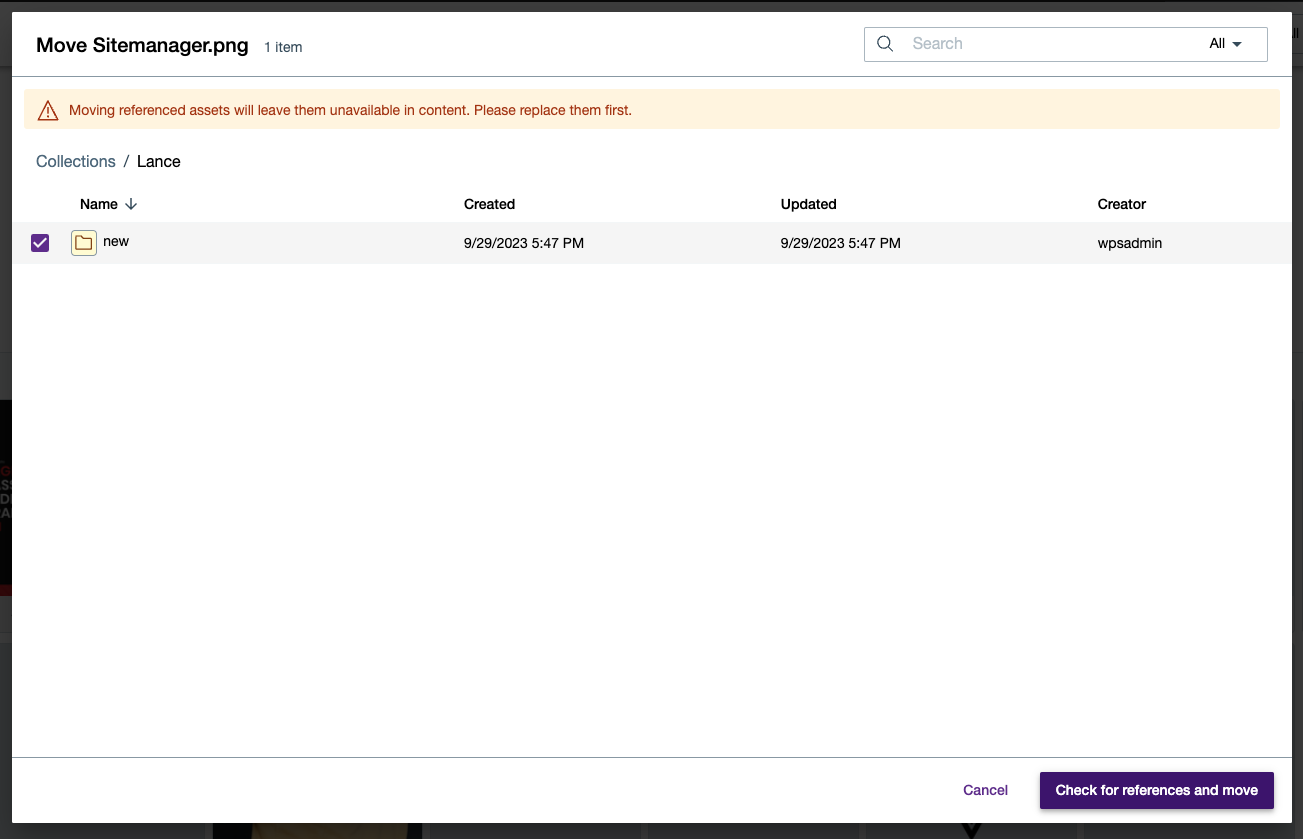
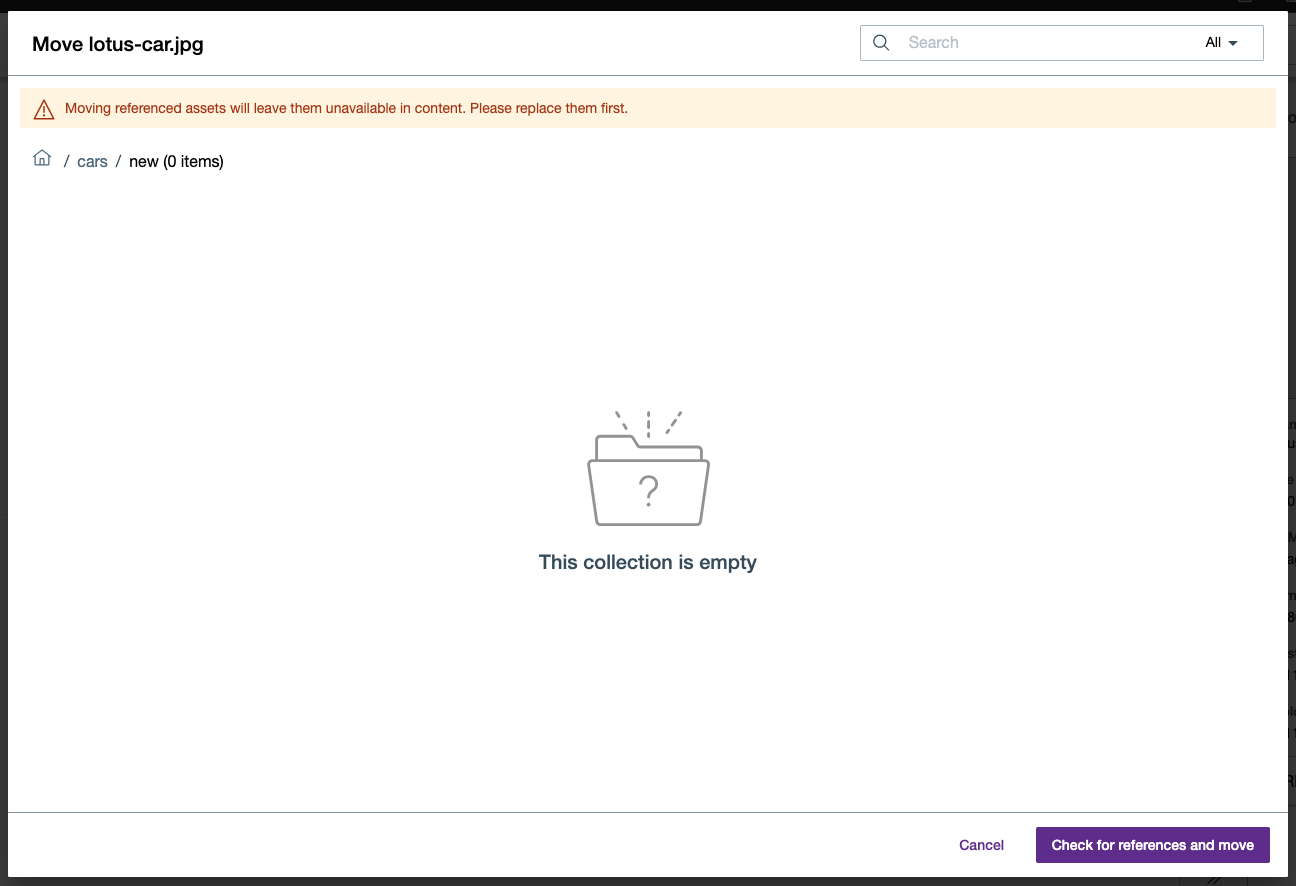
updated copy/move assets and collection doc

diff --git a/docs/manage_content/digital_assets/usage/managing_dam/manage_media_assets.md b/docs/manage_content/digital_assets/usage/managing_dam/manage_media_assets.md
@@ -122,7 +122,7 @@ Refer to the following steps if you want to copy a media asset from one collecti
 
 3. (Optional) Check the **Add new keywords to existing** box if you want newly generated keywords to be added to existing keywords. This is available only when Plugin is enabled.
 
-4. Select a collection you want to copy the asset to and click **Copy**.
+4. Navigate to a collection you want to copy the asset to and click **Copy**.
 
     If you copied an asset to the same collection, a dialogue box to rename the asset appears. 
 
@@ -146,7 +146,7 @@ Refer to the following steps if you want to move a media asset from one collecti
 
     ![Move a media asset](../../../../images/Move_Media_Asset.png)
 
-3. Select the collection in which you want to move the item and click **Check for references and move**.
+3. Navigate to a collection in which you want to move the item and click **Check for references and move**.
 
     The confirmation dialogue appears if the asset is referenced in WCM. If an asset with same name exists in the target collection, a dialogue box to rename the asset appears. 
 

diff --git a/docs/manage_content/digital_assets/usage/managing_dam/manage_collections.md b/docs/manage_content/digital_assets/usage/managing_dam/manage_collections.md
@@ -170,7 +170,7 @@ Refer to the following steps if you want to move a collection from one location 
 
 2. To move the collection, there are two options depending on the target location:
 
-    - Select the target collection where you want to move the collection and click **Move here**.
+    - Navigate to the target collection where you want to move the collection and click **Move here**.
 
         If a collection with the same name exists in the target collection, a dialog box to rename the collection appears.
 
